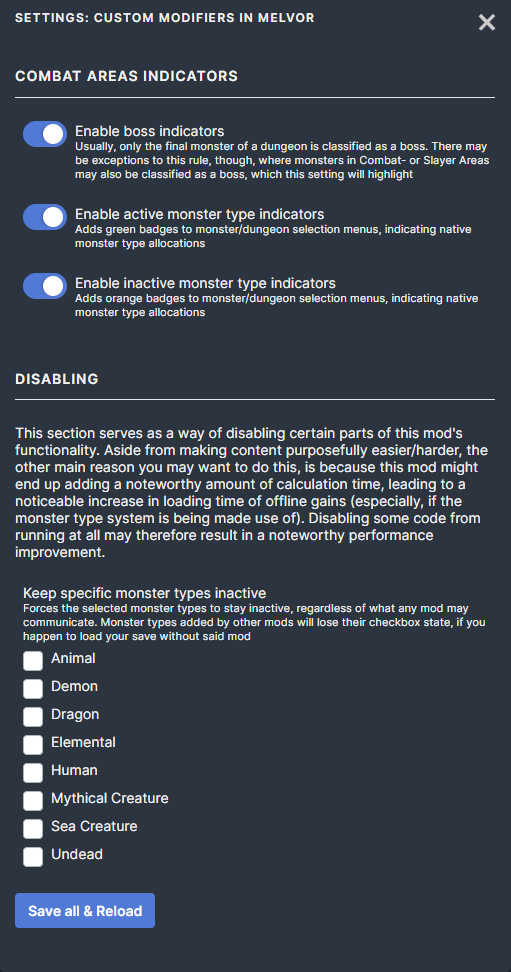
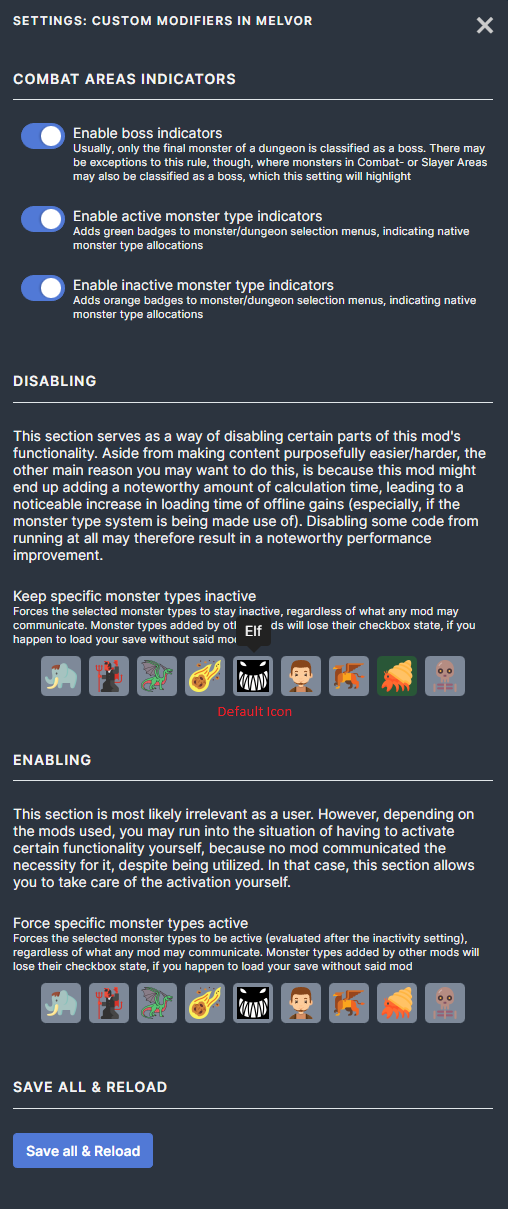
Minor updates to multiple markdown files (e.g. typo fixes) and changed on of the meta media images

Changed region(s): [[0.0295, 0.0617, 0.9744, 0.9877], [0.0295, 0.0, 0.6201, 0.0309], [0.9449, 0.0, 0.9744, 0.0309]]

diff --git a/ModCreatorReadme.md b/ModCreatorReadme.md
@@ -44,28 +44,9 @@ we should preferably avoid any error from happening because of it.
 
 Because of that, you should preferably implement this mod in a way that "only" disables functionalies, rather than throwing errors.
 
-## Monster Types
-Unlike the rest of the modifiers, monster types have been implemented in a way that they can be expanded on dynamically. 
-Be it by this mod itself, or by other mods, that want to add their own types.
-
-Because of it, a lot of the data is built and registered dynamically. 
-That being said, you can still have a look at a translation file and check the "generic" type section to get an idea of which modifiers are possible.
-
-*Example*
-```js
-MODIFIER_DATA_MonsterTypeTraitApplied: "Marks the affected as ${monsterType}"
-```
-becomes
-```js
-MODIFIER_DATA_humanTraitApplied: "Marks the affected as Human"
-```
-
-You can make use of the endpoints `mod.api.customModifiersInMelvor.getActiveTypes()`/`mod.api.customModifiersInMelvor.getInactiveTypes()`, to have a closer look at the names of the modifiers created.
-The translation entries then generally follow the pattern `MODIFIER_DATA_Name of Modifier`.
-
 ## Data files
-***IMPORTANT**: Please also have a look at the "API calls" section, as you are gonna require the usage of at least one API-endpoint, 
-if you want to add monster-type based modifiers or effects to your data file(s)!*
+***IMPORTANT**: If you decide to use modifiers specific to the monster type system (e.g. `increasedDamageAgainstDragons`), then make sure to have a look at the "API calls" section, as you are gonna require the usage of at least one API-endpoint, 
+in order to make proper use of those modifiers!*
 
 The main topic to talk about. Let's say you were to add a modifier of this mod to one of your items.
 If your mod is now loaded without this mod, the mapping/creation of the items and its data will run into an error.
@@ -158,12 +139,31 @@ if (cmimLoaded) {
 },
 ```
 
+## Monster Types
+Unlike the rest of the modifiers, monster types have been implemented in a way that they can be expanded on dynamically. 
+Be it by this mod itself, or by other mods, that want to add their own types.
+
+Because of it, a lot of the data is built and registered dynamically. 
+That being said, you can still have a look at a translation file and check the "generic" type section to get an idea of which modifiers are possible.
+
+*Example*
+```js
+MODIFIER_DATA_MonsterTypeTraitApplied: "Marks the affected as ${monsterType}"
+```
+becomes
+```js
+MODIFIER_DATA_humanTraitApplied: "Marks the affected as Human"
+```
+
+You can make use of the endpoints `mod.api.customModifiersInMelvor.getActiveTypes()`/`mod.api.customModifiersInMelvor.getInactiveTypes()`, to have a closer look at the names of the modifiers created.
+The translation entries then generally follow the pattern `MODIFIER_DATA_Name of Modifier`.
+
 ## API calls
 Aside from data registration, you might also want to make use of API calls.
 To avoid errors here, you should always check the api object, 
 before actually trying to call the methods.
 
-***Important**: All api calls related to monster type allocation should be made done by the time the **onMoadsLoaded** lifecycle hook is finished!*
+***Important**: All api calls related to monster type allocation should be made during the **onMoadsLoaded** lifecycle hook!*
 
 ```js
 if (mod.api.customModifiersInMelvor) {
@@ -177,7 +177,7 @@ While we are on the topic of API calls - while documentation below will also inf
 during combat there are two main checks to be aware of.
 
 Organic type allocation is applied on spawm, as easily checkable properties on the character object.
-This is qicker than always checking collections in the background.
+This is quicker than always checking collections in the background.
 ```js
 // Structure
 character.isTYPE
@@ -207,14 +207,11 @@ However, what if you want to add additional monster type definitions based on yo
 First things first, one important thing to note is the difference between **active** and **inactive** types. 
 Active types are those that at least one mod actually makes use of (e.g. using the `Human` type, because you want to use the `increasedDamageAgainstHumans` modifier),
 whereas inactive types are those that get defined, but actually end up not being used by any of the loaded mods.
-The reason for this difference is to avoid blurting the combat calculations with unnecessary processing.
+The reason for this difference is to avoid blurting the combat calculations with unnecessary processes.
 
 With that out of the way, this mod provides multiple API endpoints that you can utilize. 
-One thing of note, you don't have to worry about expansions purchased by the user, when utilizing these endpoints.
-
-**IMPORTANT**: Please make sure, that all additions/updates to monster type definitions are made **before** `onCharacterLoaded`,
-as that's the last lifecycle hook before offline calculation is processed, but furthermore, it's when settings of this mod are evaluated,
-which are not supposed to have their changes to monster type definitions be overwritten by other mods!
+One thing of note, you don't have to worry about expansions purchased by the user, when utilizing these endpoints,
+though you may still do so, in order to keep collections as small as possible.
 
 ```ts
 // Structure
@@ -279,6 +276,7 @@ registerOrUpdateType("Dragon", "Dragons", "https://cdn.melvor.net/core/v018/asse
 monsterIsOfType: (monster: Monster, monsterType: string | MonsterType) => boolean
 
 // Example
+monsterIsOfType(monsterObject, MonsterType.Dragon); // if you have the type-definition classes, see "Intellisense" section
 monsterIsOfType(monsterObject, "Dragon");
 
 // Purpose: Check, for a specific monster, whether they are of a certain type

diff --git a/Changelog.md b/Changelog.md
@@ -1,8 +1,8 @@
 # Changelog
 
 ## v2.3.1
-* Re-designed monster-type-list-based settings to be way more compact (courtesy of slahsh)
-* Fixed issue where mods could accidentally overwrite monster type allocations of other mods
+* Re-designed monster-type-list-based settings to be way more compact (courtesy of slahsh's "Skill Boosts" mod)
+* Fixed issue where, under certain circumstances, mods could accidentally overwrite monster type allocations of other mods
 
 ## v2.3.0
 * Game data is now always loaded for all monster types
@@ -34,7 +34,7 @@ for types activated before the [Tiny Icons mod](https://mod.io/g/melvoridle/m/ti
 
 ## v2.1.0
 * Added "damage taken from monster type" modifiers
-* Added modifiers and effects to aponInterfaceReady ply monster types ("trait") during combat
+* Added modifiers and effects to apply monster types ("trait") during combat
 * After some time for backwards-compatibility, all monster types are now inactive by default
 * `registerOrUpdateType` endpoint now defaults to `true` for the `active` parameter
 

diff --git a/Credits.md b/Credits.md
@@ -2,7 +2,7 @@
 * [Cherry Mace's](https://github.com/CherryMace) [Mod Boilerplate](https://github.com/CherryMace/melvor-idle-mod-boilerplate-ts)
 * [Sense-q's](https://github.com/sense-q) [Tiny Icons Mod](https://mod.io/g/melvoridle/m/tiny-icons), used for the logo of this mod
 * [Game icons](https://game-icons.net/), used for the generic monster type icon
-* Slahsh, for his design on icon-lists in the mod settings
+* _Slahsh_, who originally created the design of icon-list mod settings that has been implemented in this mod (with permission)
 
 # Contribution
 * KumaV1 (`#___kuma___` in Discord)
